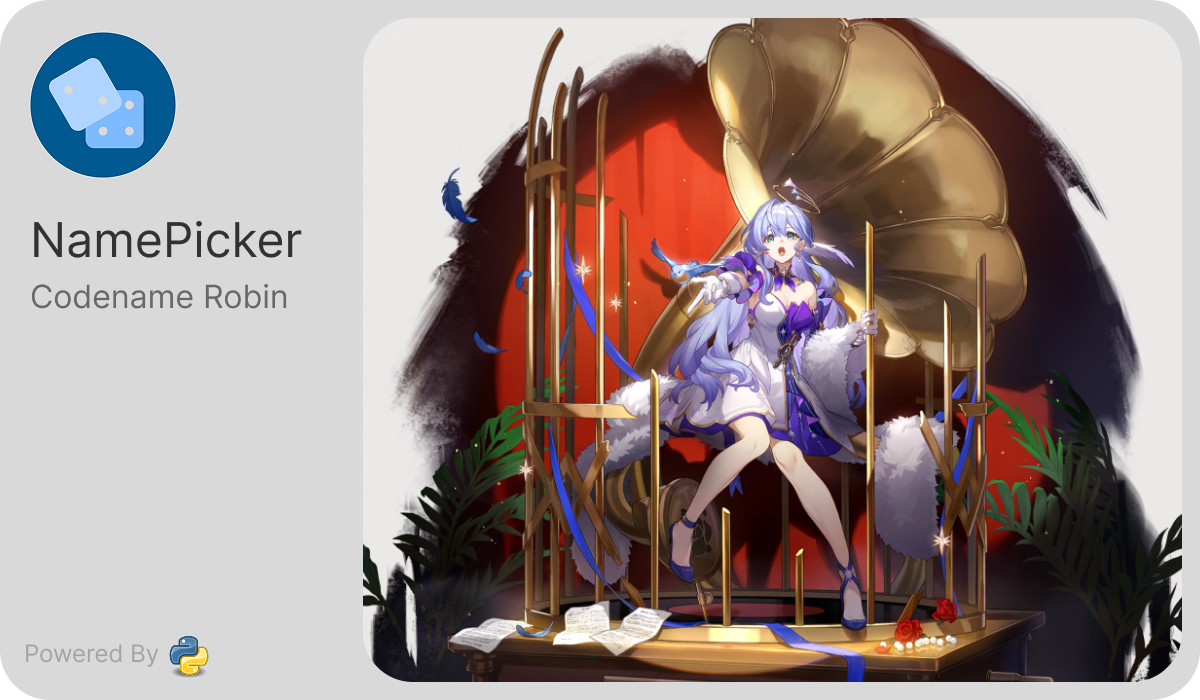
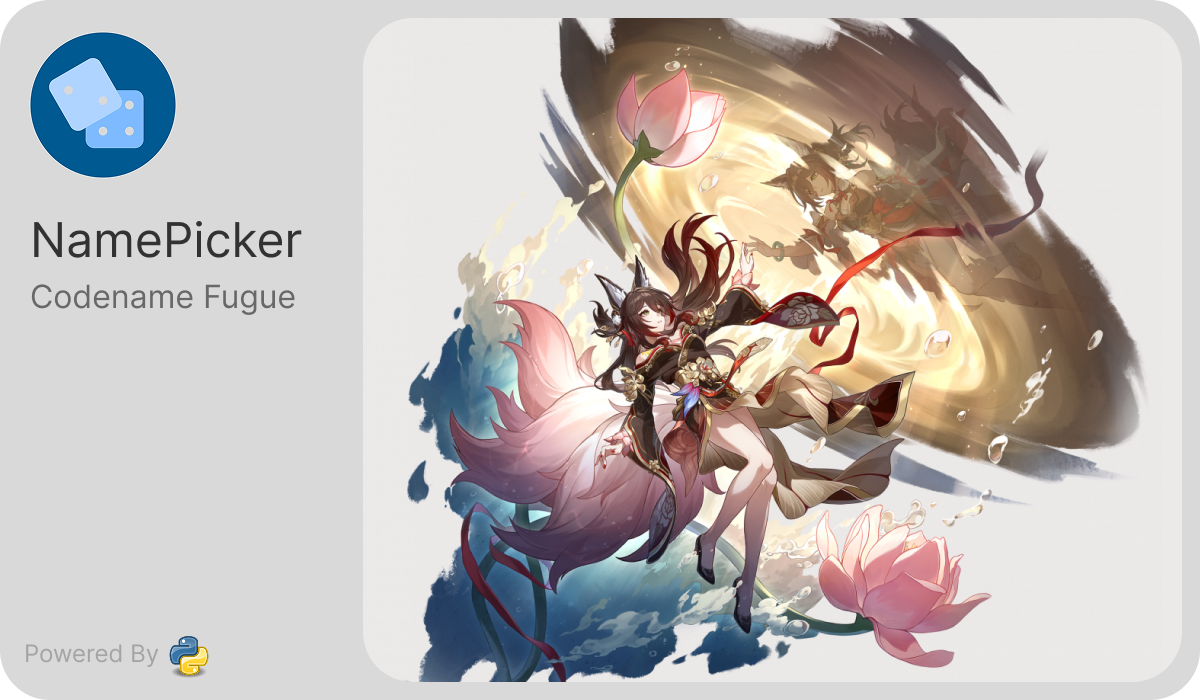
chore:fugue

diff --git a/pages/About.qml b/pages/About.qml
@@ -44,7 +44,7 @@ FluentPage {
         SettingCard {
             width: parent.width
             title: qsTr(Bridge.VerTxt)
-            description: qsTr("『鸟儿为何要飞向天空？也许鸟儿注定要如此，因为那是它的愿望、归宿，以及不可剥夺的权利……』")
+            description: qsTr("『八面玲珑的狐人少女，样貌、名字、身份皆被人夺去。命运为她留下一线生机，而「毁灭」的烙印仍在蠢蠢欲动。』")
             icon: "ic_fluent_info_sparkle_20_regular"
         }
         SettingCard {

diff --git a/pages/Choose.qml b/pages/Choose.qml
@@ -17,7 +17,7 @@ FluentPage {
             height: 370
             model:ListModel {
                 id: studentsModel
-                ListElement { name: qsTr("example")}
+                ListElement { name: qsTr("别紧张...")}
             }
         }
         Button{

diff --git a/main.py b/main.py
@@ -19,10 +19,10 @@ if os.name == 'nt':
     from win32com.client import Dispatch
 
 temp_dir = tempfile.gettempdir()
-VERSION = "v2.1.0rel"
-CODENAME = "Robin"
-VER_NO = 1
-APIVER = 1
+VERSION = "v2.1.1dev"
+CODENAME = "Fugue"
+VER_NO = 2
+APIVER = 2
 
 if not sys.stderr:
     class FakeStderr:
@@ -366,7 +366,8 @@ if os.path.exists("out.log"):
     os.remove("out.log")
 logger.add("out.log")
 logger.add(sys.stderr, level=cfg.get("Debug","logLevel"))
-logger.info("「她将自己的生活形容为一首歌，而那首歌的开始阴沉而苦涩。⌋")
+logger.info("NamePicker %s - Codename %s (Inside version %d,Plugin API Version %d)"%(VERSION,CODENAME,VER_NO,APIVER))
+logger.info("「历经生死、重获新生的忘归人，何时才能返乡？⌋")
 core = Choose("都抽","都抽")
 verified = False
 mac = macAddr()
